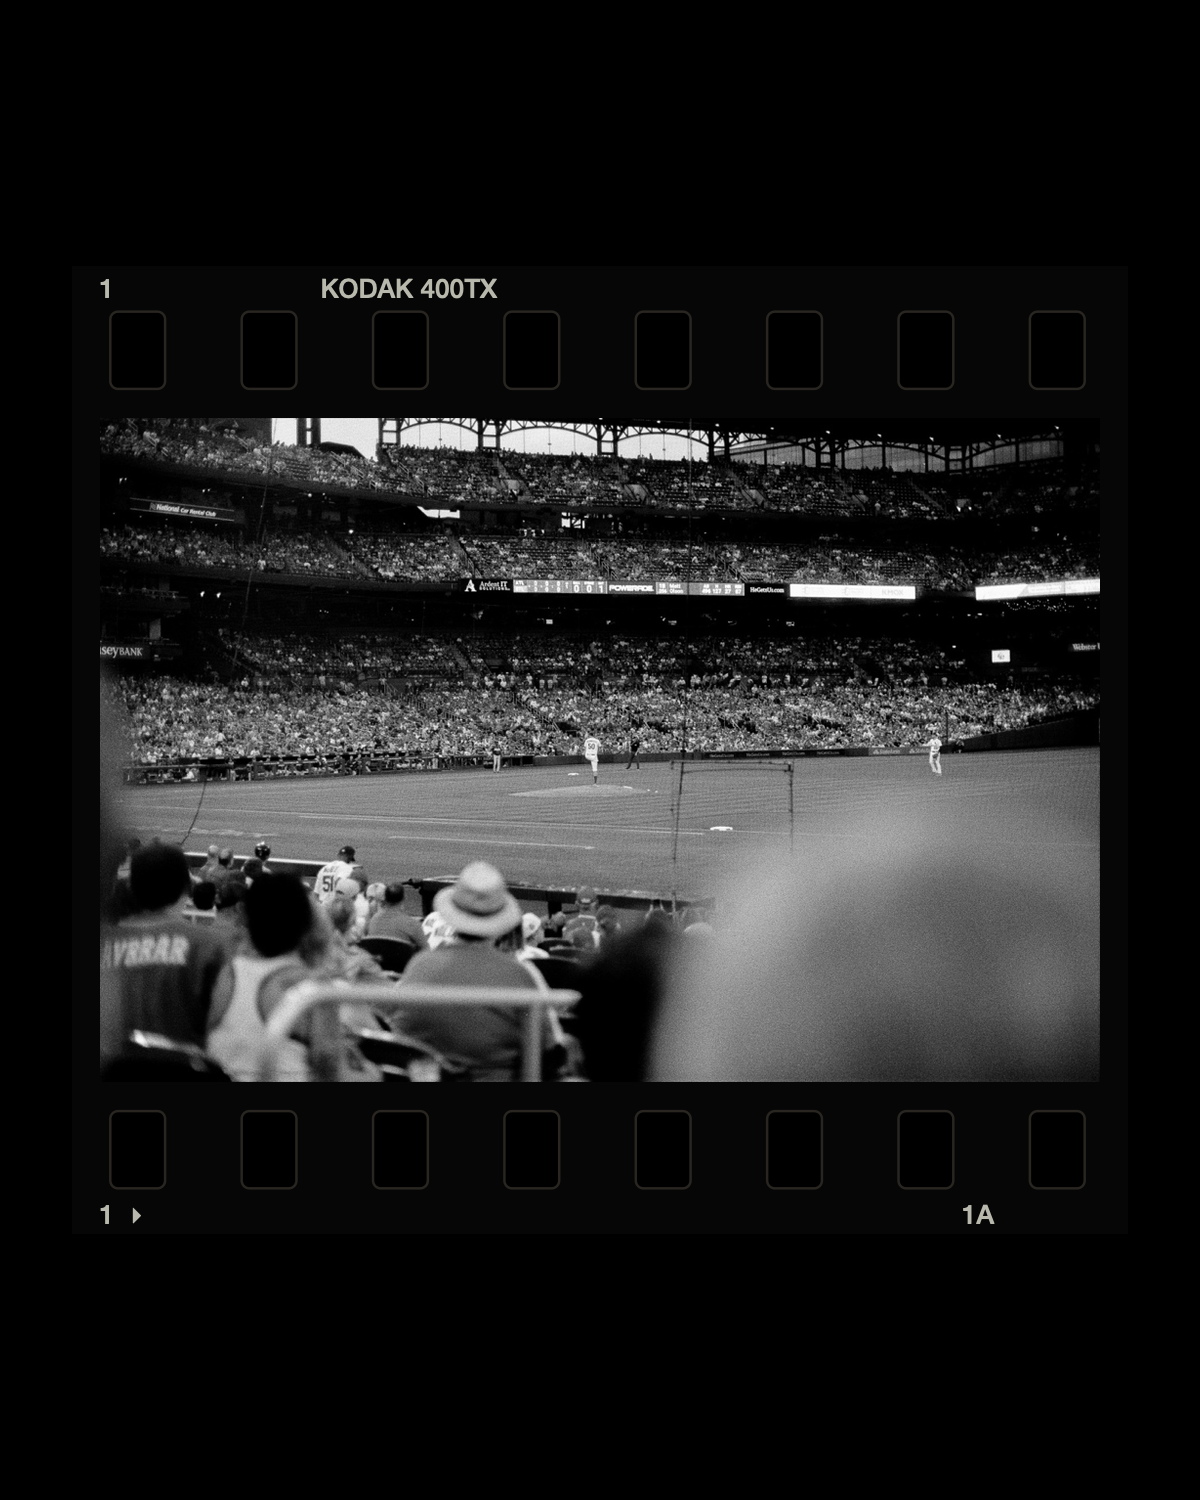
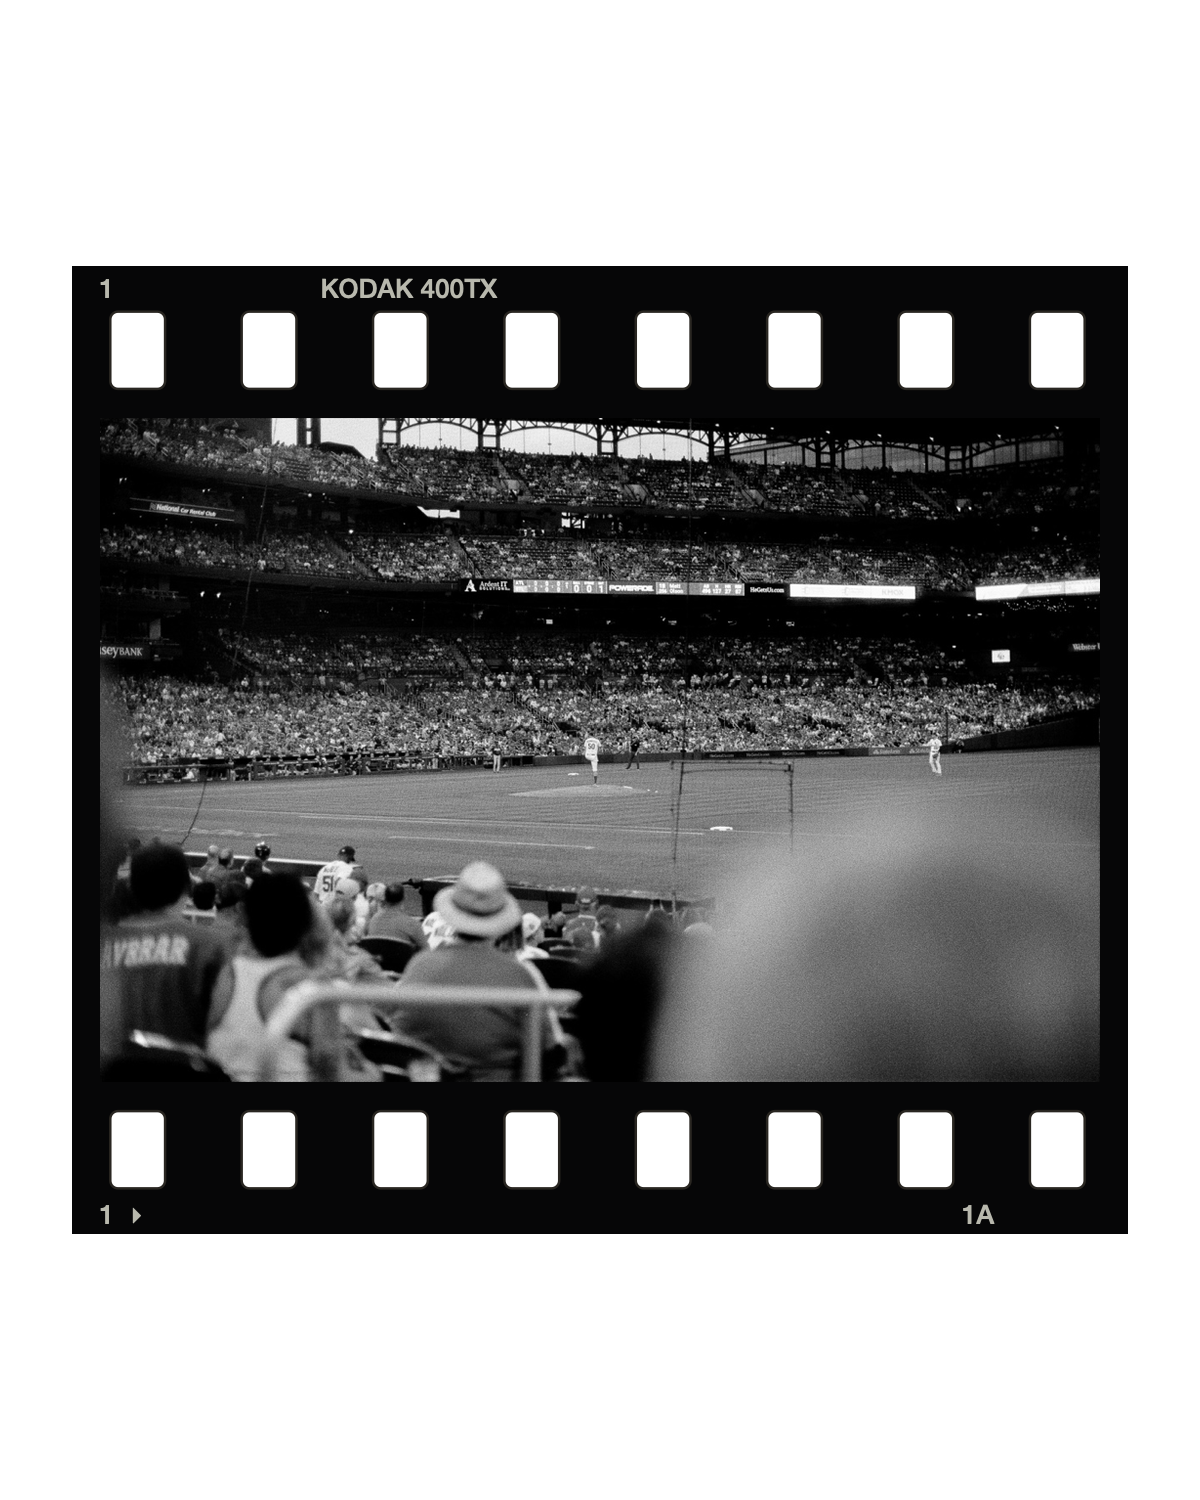
Simplify Decks introduction and show film border on white

diff --git a/site/decks/index.html b/site/decks/index.html
@@ -4,7 +4,7 @@
 <meta charset="utf-8">
 <meta name="viewport" content="width=device-width, initial-scale=1">
 <title>Decks — Frames for your photography</title>
-<meta name="description" content="Add frames to your photos and videos, write captions, and save your own templates. Decks is an iPhone and iPad app by a photographer, for photographers.">
+<meta name="description" content="Get your photos and videos ready for Instagram and Threads with templates, text, camera details, and frames. By a photographer, for photographers.">
 <link rel="canonical" href="https://brianrenshaw.app/decks/">
 <meta property="og:type" content="website">
 <meta property="og:title" content="Decks — Frames for your photography">
@@ -34,7 +34,7 @@
 <p class="byline">By a photographer, for photographers.</p>
 </div>
 <div class="intro-copy">
-<p class="intro">Add a frame, bring a few photos together, and write the story behind them. Start with a template and adjust as much or as little as you want.</p>
+<p class="intro">Decks helps your photos and videos look their best on Instagram and Threads. Start with a template, add text or camera details, and customize every detail.</p>
 <a class="primary-action" href="https://testflight.apple.com/join/SAMjeMy5">Try Decks on TestFlight</a>
 <p class="availability">Available in beta · iOS and iPadOS 18 or later</p>
 </div>
@@ -48,7 +48,7 @@
 <figure><a href="assets/build43-frame-blur.webp" aria-label="View blurred background, white border at full size"><img src="assets/build43-frame-blur.webp" width="1200" height="1500" loading="lazy" alt="A basketball hoop among autumn leaves with a white border over a blurred photographic background"></a><figcaption>Blurred background, white border</figcaption></figure>
 <figure><a href="assets/build43-frame-black-border.webp" aria-label="View white background, black border at full size"><img src="assets/build43-frame-black-border.webp" width="1200" height="1500" loading="lazy" alt="An espresso being prepared, framed with a black border on white"></a><figcaption>White background, black border</figcaption></figure>
 <figure><a href="assets/build43-frame-blur-pair.webp" aria-label="View two photos on a blurred background at full size"><img src="assets/build43-frame-blur-pair.webp" width="1200" height="1500" loading="lazy" alt="Two autumn woodland photographs with white borders on a blurred photographic background"></a><figcaption>Two photos on a blurred background</figcaption></figure>
-<figure><a href="assets/build43-frame-film.webp" aria-label="View film border at full size"><img src="assets/build43-frame-film.webp" width="1200" height="1500" loading="lazy" alt="A black-and-white baseball photograph with a native Kodak Tri-X film-style border"></a><figcaption>Film border</figcaption></figure>
+<figure><a href="assets/build43-frame-film.webp" aria-label="View film border at full size"><img src="assets/build43-frame-film.webp" width="1200" height="1500" loading="lazy" alt="A black-and-white baseball photograph with a native Kodak Tri-X film-style border on a white background"></a><figcaption>Film border</figcaption></figure>
 </div>
 <p class="photo-credit">Photographs by Brian Renshaw. All examples made with Decks.</p>
 </section>
@@ -75,7 +75,7 @@
 </section>
 
 <section class="feature-row captions-section" aria-labelledby="captions-heading">
-<div class="feature-copy"><h2 id="captions-heading">Write your captions in one place.</h2><p>Tell the story behind each photo and add camera details as you write. Your captions stay with the project.</p><p>Copy a caption, switch to Instagram, and paste it into your post. Come back to Decks for the next one. The Caption Sheet keeps track of which captions you’ve copied.</p></div>
+<div class="feature-copy"><h2 id="captions-heading">Write your captions in one place.</h2><p>Write captions and add camera details. Your captions stay with the project.</p><p>Copy a caption, switch to Instagram, and paste it into your post. Come back to Decks for the next one. The Caption Sheet keeps track of which captions you’ve copied.</p></div>
 <figure class="phone-example"><a href="assets/build43-caption.webp" aria-label="View the photos and captions introduction at full size"><img src="assets/build43-caption.webp" width="1206" height="2622" loading="lazy" alt="Decks introduction showing a framed camera photograph, its caption with a copy button, and Save to Photos"></a><figcaption>Save your photos, then copy your captions.</figcaption></figure>
 </section>
 

diff --git a/scripts/render_decks_examples.swift b/scripts/render_decks_examples.swift
@@ -50,7 +50,7 @@ import IngestSocialKit
     try await save("frame-blur", project(["Example26"], background: .blur))
     try await save("frame-black-border", project(["Example29"], background: .white, border: 0.018, color: .black))
     try await save("frame-blur-pair", project(["Example24", "Example27"], background: .blur))
-    try await save("frame-film", project(["Example14"], background: .black, film: true))
+    try await save("frame-film", project(["Example14"], background: .white, film: true))
     var beside = try project(["Example25"], background: .white, details: true, ratio: SocialRatio(3,2))
     beside.style.fit = .fill
     beside.frames[0].metadataPlate?.opacity = 0

diff --git a/site/decks/assets/SOURCES.md b/site/decks/assets/SOURCES.md
@@ -14,7 +14,7 @@ Original photographs remain untouched in `~/Downloads/Decks/`; the app's importe
 
 The ten additional `build43-frame-*` and `build43-camera-*` images are real exports from the build 43 renderer, `IngestSocialKit` at native commit `1d05ac8`. `scripts/render_decks_examples.swift` records the exact settings. It runs in a temporary Swift executable with that package as its local dependency, using the imported Tutorial JPEGs and writing PNGs to a separate output directory. It does not change the app project or original photos.
 
-The six frame examples use distinct subjects: In-N-Out (`Burger.jpg`, original `fuji_5063.jpg`) on white; baseball (`Example40.jpg`, `fuji_5924.jpg`) on black with a white border; fall basketball (`Example26.jpg`, `DSCF3213.jpg`) on blur; espresso (`Example29.jpg`, `_DSC1199 1.jpg`) with a black border on white; two autumn woodland photographs (`Example24.jpg` / `Example27.jpg`, `DSCF3198.jpg` / `DSCF3219.jpg`) on blur; and black-and-white baseball (`Example14.jpg`, `7637-05.jpg`) with a film border. Film lettering describes the border style, not a claim about the photograph's capture stock.
+The six frame examples use distinct subjects: In-N-Out (`Burger.jpg`, original `fuji_5063.jpg`) on white; baseball (`Example40.jpg`, `fuji_5924.jpg`) on black with a white border; fall basketball (`Example26.jpg`, `DSCF3213.jpg`) on blur; espresso (`Example29.jpg`, `_DSC1199 1.jpg`) with a black border on white; two autumn woodland photographs (`Example24.jpg` / `Example27.jpg`, `DSCF3198.jpg` / `DSCF3219.jpg`) on blur; and black-and-white baseball (`Example14.jpg`, `7637-05.jpg`) with a film border on white. Film lettering describes the border style, not a claim about the photograph's capture stock.
 
 Four camera examples use an autumn landscape (`Example25.jpg`, `DSCF3202.jpg`) beside its details, a rainbow (`Example19.jpg`, `DSC07096.jpg`) with an overlay, sunset details below the photo, and separate details on food and pizza (`Example37.jpg` / `Example38.jpg`, `fuji_5453.jpg` / `fuji_5458.jpg`). All settings come from actual EXIF through the native importer; none are invented. Each gallery photograph appears only once. The requested `_DSC1997` filename is absent from the supplied collection; `_DSC1199 1.jpg` is the available espresso photo.
 

diff --git a/MESSAGING.md b/MESSAGING.md
@@ -295,11 +295,11 @@ Decks is an iPhone and iPad frames app by Brian Renshaw, a photographer. It is a
 
 **Supporting line:** By a photographer, for photographers.
 
-**Primary message:** Add frames to highlight your photography, bring photos together, and write the story behind them. Start with a template and adjust as much or as little as needed.
+**Primary message:** Decks helps your photos and videos look their best on Instagram and Threads. Start with a template, add text or camera details, and customize every detail.
 
 **Priorities:** Simple template creation first. Walk through choosing a layout, size, and frame, then adding media. Camera details can go on the photo or in the caption. Captions stay with projects and are easy to copy while switching to Instagram. Saved templates work with Apple Shortcuts without opening Decks. Photos and videos use the same editing tools. Creating and editing personal templates is central to the app.
 
-**Voice:** Simplicity over cleverness, explicitly requested by Brian on October 1. Use descriptive headings and short, concrete explanations. No slogans, creativity claims, exaggerated promises, or gimmicky headlines. Keep advanced controls in expandable details. The previous headline and dense numbered feature sections are retired.
+**Voice:** Simplicity over cleverness, explicitly requested by Brian on October 1. Lead with getting photos and videos ready to post, useful templates, and customization. Keep sentences short and human. Avoid competitor criticism in public copy. Use descriptive headings and short, concrete explanations. No slogans, creativity claims, exaggerated promises, or gimmicky headlines. Keep advanced controls in expandable details. The previous headline and dense numbered feature sections are retired.
 
 **Visual direction:** Quiet light paper, charcoal text, system type, thin dividers. Photography and real native screenshots lead. No decorative gradients, floating cards, mock app UI, or oversized slogans. Support and privacy use the same theme. This supersedes the original dark landing-page direction; the portfolio card retains its own styling.
 
